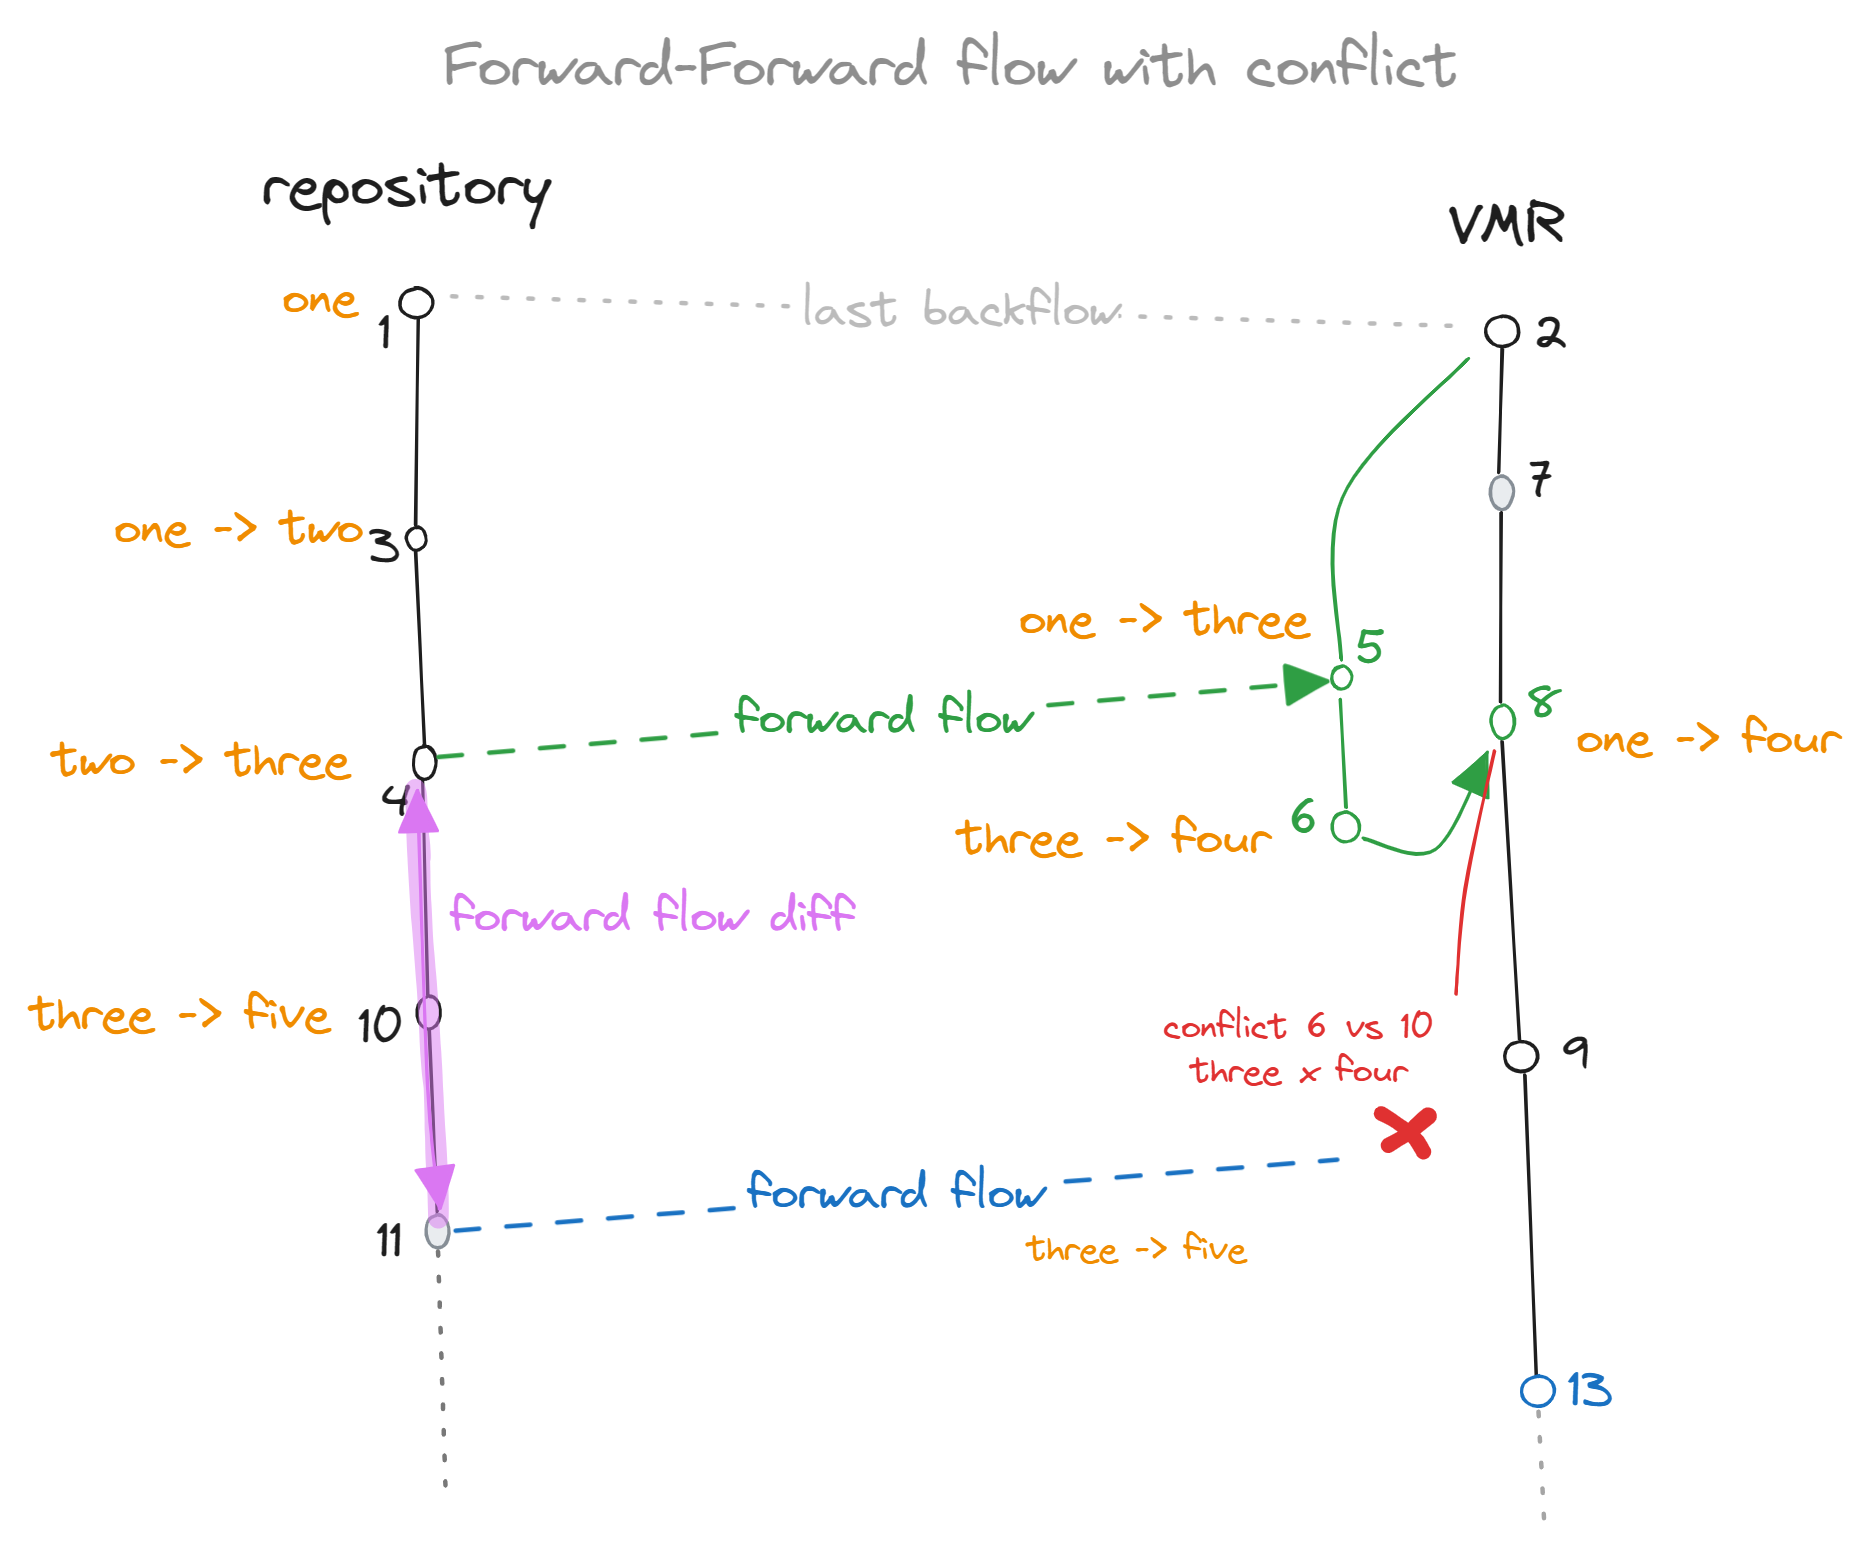
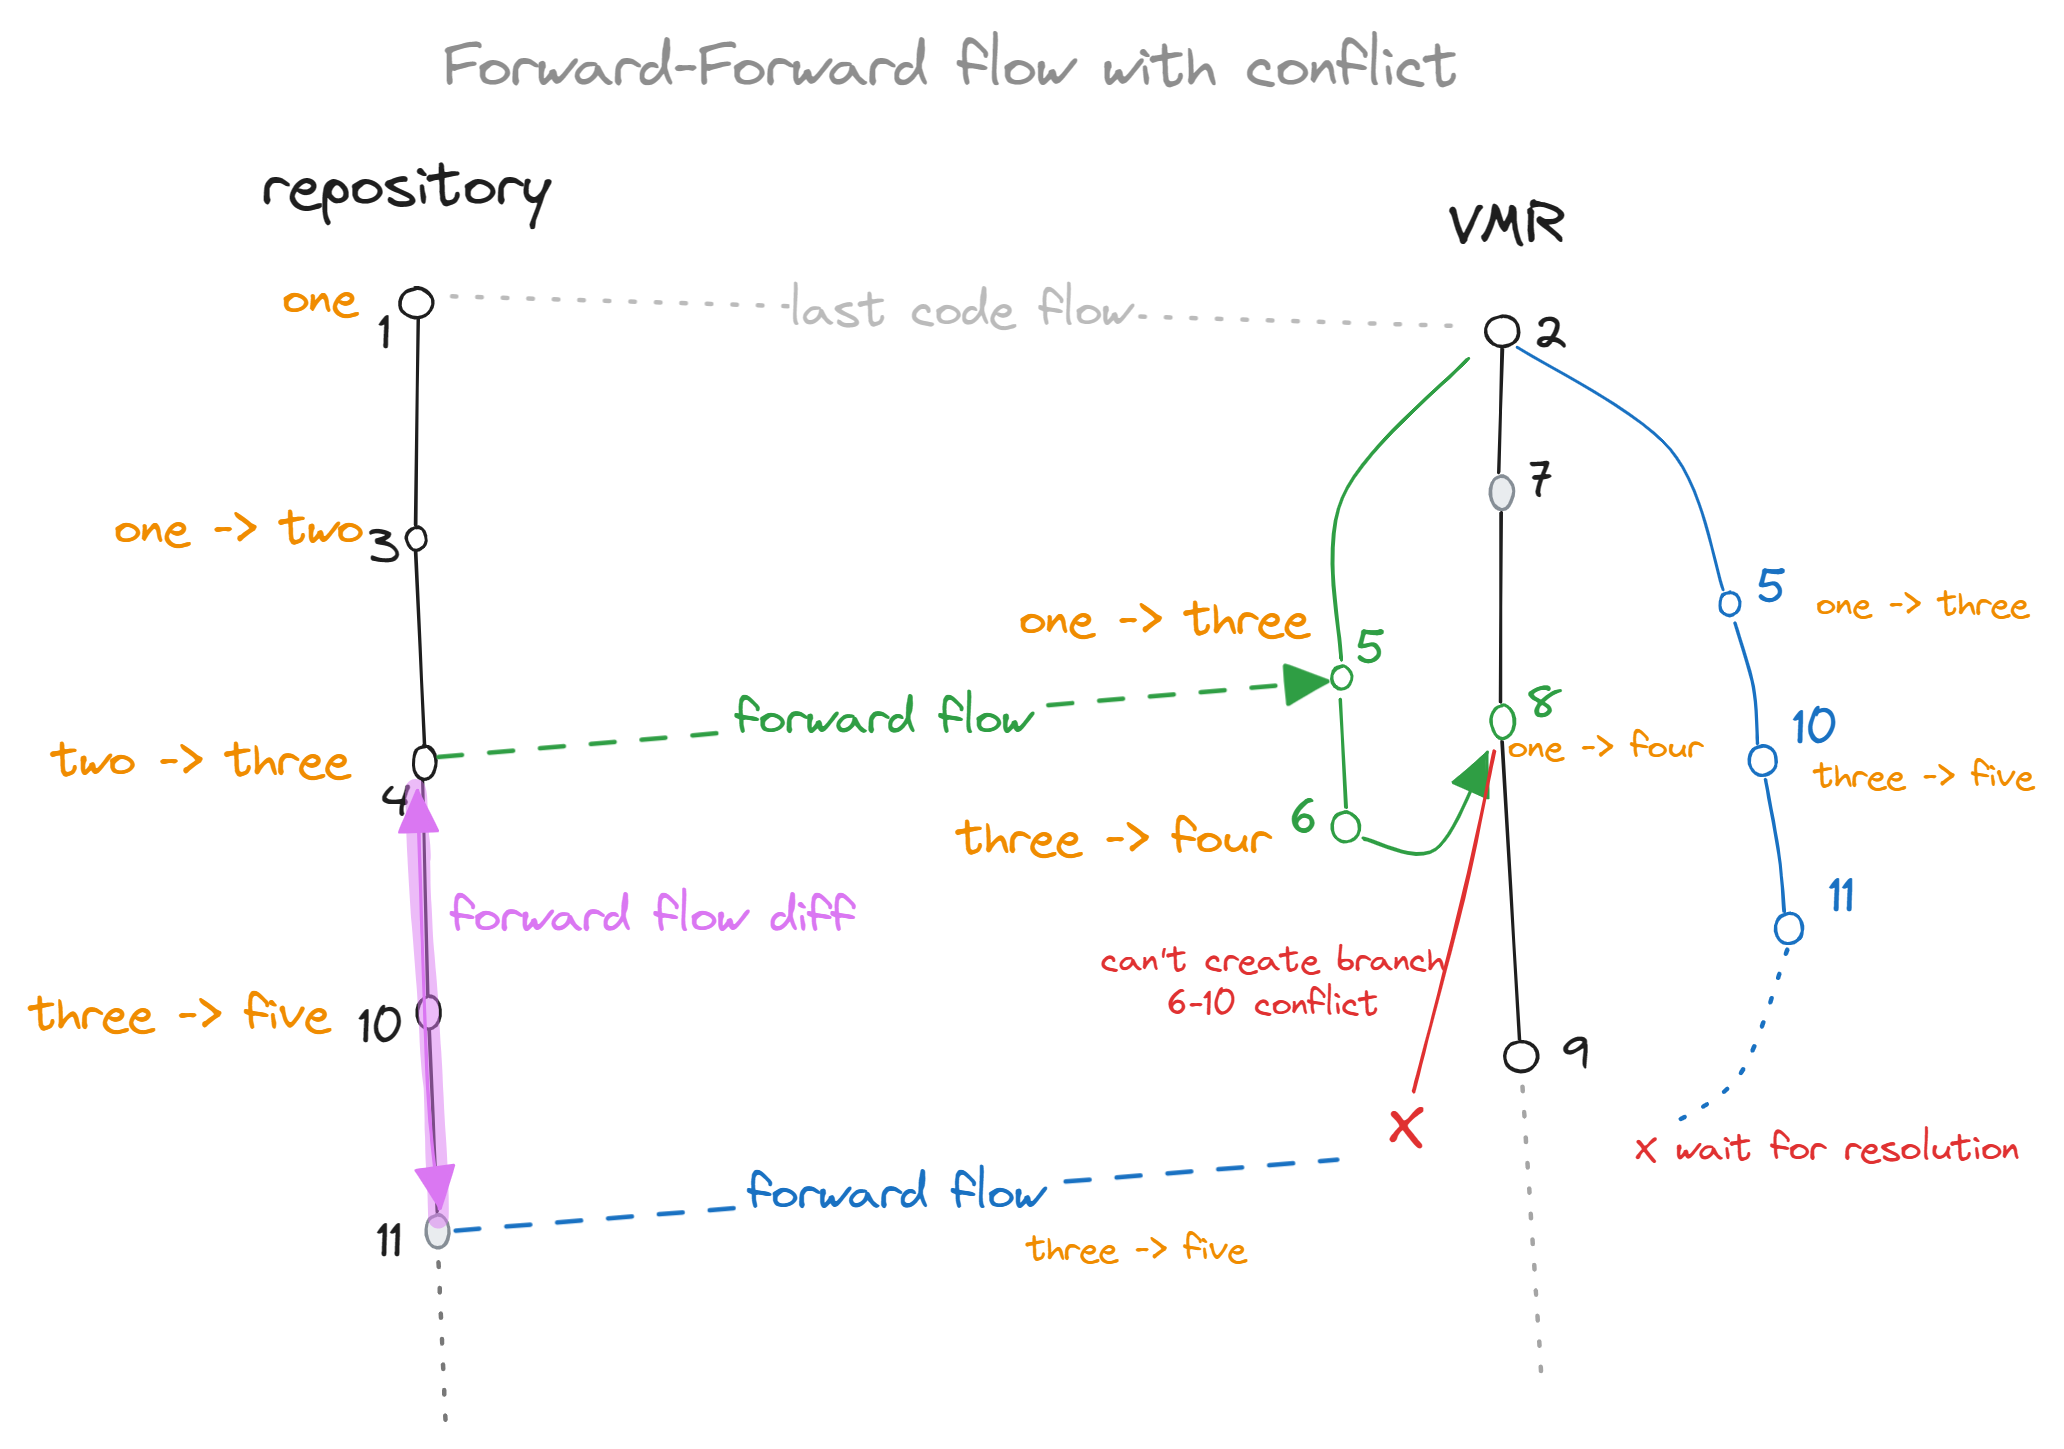
Add conflict example

diff --git a/Documentation/UnifiedBuild/Full-Code-Flow.md b/Documentation/UnifiedBuild/Full-Code-Flow.md
@@ -1,5 +1,29 @@
 # Full VMR code flow
 
+- [Full VMR code flow](#full-vmr-code-flow)
+  - [Purpose](#purpose)
+  - [Terminology](#terminology)
+  - [High-level code flow](#high-level-code-flow)
+    - [Forward flow](#forward-flow)
+    - [Backflow](#backflow)
+  - [Implementation plan](#implementation-plan)
+    - [Backflow service](#backflow-service)
+    - [Why new service?](#why-new-service)
+    - [Composition of DarcLib commands](#composition-of-darclib-commands)
+  - [The codeflow algorithm](#the-codeflow-algorithm)
+    - [Last flow detection](#last-flow-detection)
+      - [Detecting incoming flow](#detecting-incoming-flow)
+      - [Detecting outgoing flow](#detecting-outgoing-flow)
+      - [Cases when SHA is not in the graph](#cases-when-sha-is-not-in-the-graph)
+    - [Conflicts](#conflicts)
+    - [Updating PRs](#updating-prs)
+  - [Synchronization configuration](#synchronization-configuration)
+    - [Configuration location](#configuration-location)
+      - [Proposed configuration](#proposed-configuration)
+    - [Arcade](#arcade)
+      - [Updating `eng/common`](#updating-engcommon)
+      - [Updating `global.json`](#updating-globaljson)
+
 ## Purpose
 
 This document describes the architecture of the full code flow between product repositories and the VMR.
@@ -171,30 +195,30 @@ The diagrams below visualize these flows and have some common features:
 On this diagram we see:
 
 The flow of changes in the diagram is as follows:  
-`1.` and `2.` denote some previous synchronization point.
-`3.` Commit in the repository changes the contents of `A.txt` to `two`.  
-`4.` Commit in the repository changes the contents of `A.txt` to `three`. Forward flow also starts at that point (this is arbitrary).  
-`5.` A forward-flow branch (green) is created in the VMR. The branch is based on the commit of last synchronization (`2.`). The content on the commit is [described below](#forward-flow-commit). A PR from this branch is opened.  
-`6.` An additional arbitrary commit is made in the forward flow PR which changes the contents of `A.txt` to `four` (i.e. fixing the build).  
-`7.` A commit is made to the main branch of the VMR, content is unrelated.  
-`8.` Forward flow PR is merged, effectively updating `A.txt` from `one` to `four`.  
-`9.` A commit is made to the main branch of the VMR, content is unrelated. Backflow starts at that point (this is arbitrary).  
-`10.` A backflow branch (blue) is created in the repository. The branch is based on the commit of last synchronization's (`2.`) base commit. The content on the commit is [described below](#backflow-commit). A PR from this branch is opened.  
-`11.` A commit is made to the main branch of the repository, content is unrelated.  
-`12.` A commit is made to the main branch of the repository, content is unrelated.  
-`13.` The PR is merged, effectively updating `A.txt` from `three` to `five`.
+`1` and `2` denote some previous synchronization point.
+`3` Commit in the repository changes the contents of `A.txt` to `two`.  
+`4` Commit in the repository changes the contents of `A.txt` to `three`. Forward flow also starts at that point (this is arbitrary).  
+`5` A forward-flow branch (green) is created in the VMR. The branch is based on the commit of last synchronization (`2`). The content on the commit is [described below](#forward-flow-commit). A PR from this branch is opened.  
+`6` An additional arbitrary commit is made in the forward flow PR which changes the contents of `A.txt` to `four` (i.e. fixing the build).  
+`7` A commit is made to the main branch of the VMR, content is unrelated.  
+`8` Forward flow PR is merged, effectively updating `A.txt` from `one` to `four`.  
+`9` A commit is made to the main branch of the VMR, content is unrelated. Backflow starts at that point (this is arbitrary).  
+`10` A backflow branch (blue) is created in the repository. The branch is based on the commit of last synchronization's (`2`) base commit. The content on the commit is [described below](#backflow-commit). A PR from this branch is opened.  
+`11` A commit is made to the main branch of the repository, content is unrelated.  
+`12` A commit is made to the main branch of the repository, content is unrelated.  
+`13` The PR is merged, effectively updating `A.txt` from `three` to `five`.
 
 You can notice several features:
 - No (git) conflicts appear. This is because this concrete example considers a single file that is chronologically changed from `one` to `five` in gradual steps. In such case, we should not expect any conflicts and this is by design. In cases where most of the changes happen in the individual repository, we expect the code to flow fluently.
 - The whole flow is comparable to a dev working in a dev branch within a single repository - the dev branch being the VMR where the dev merges the main branch in between the work (this is the forward flow). The dev then opens a PR against the main branch (the repository in this case). Wherever there would be conflicts in a single repository case, we would get conflicts here too and this is by design.
 
-What is left to discuss is how we create the commit (`10.`) of the backflow branch. We know that we received the delta from the repository as part of the commit `8.` after the last forward flow PR was merged. We assume that a squash merge was used and commits `5.` and `6.` are no longer available.  
-The delta between the repositories when commit `9.` (which we will backflow) happens is technically commits `6.`, `7.` and `9.` is visualized as the purple diff between `9.` and `5.`. This diff correctly represents the delta because:
-- It contains the last known snapshot of the repository (`5.`)
-- All commits that happened in the VMR in the meantime (since the last commit) - the commit `7.`.
-- The other commits that happened in the VMR since the sync `9.`.
+What is left to discuss is how we create the commit (`10`) of the backflow branch. We know that we received the delta from the repository as part of the commit `8` after the last forward flow PR was merged. We assume that a squash merge was used and commits `5` and `6` are no longer available.  
+The delta between the repositories when commit `9` (which we will backflow) happens is technically commits `6`, `7` and `9` is visualized as the purple diff between `9` and `5`. This diff correctly represents the delta because:
+- It contains the last known snapshot of the repository (`5`)
+- All commits that happened in the VMR in the meantime (since the last commit) - the commit `7`.
+- The other commits that happened in the VMR since the sync `9`.
 
-The base commit of the backflow branch is then the base commit of the last forward flow as that's what we're applying the delta to. If commit `11.` or `12.` would change the contents of `A.txt`, we would get a conflict in the backflow PR which is desired.
+The base commit of the backflow branch is then the base commit of the last forward flow as that's what we're applying the delta to. If commit `11` or `12` would change the contents of `A.txt`, we would get a conflict in the backflow PR which is desired.
 
 Similarly, we can look at the opposite direction which is symmetrical.
 
@@ -204,7 +228,7 @@ The situation changes when we have two flows in the same direction and things ar
 
 ![Two flows in the same direction](images/backward-backward-flow.png)
 
-When we are forming the backflow commit (`13.`), we know that the only things that happened since we last sent all our updates to the repository are the commits `11.` and `12.` which are equal to a simple diff of the branch we're flowing.
+When we are forming the backflow commit (`13`), we know that the only things that happened since we last sent all our updates to the repository are the commits `11` and `12` which are equal to a simple diff of the branch we're flowing.
 
 ### Last flow detection
 
@@ -242,15 +266,33 @@ We will then use the `shaB`-`shaC` diff (in pink) as the diff for the PR while b
 
 #### Cases when SHA is not in the graph
 
-> ⚠⚠⚠ TODO
+It can happen that the SHA we find in the `Version.Details.xml` or `source-manifest.json` is not in the history of the current repository's branch tip. This can happen when we synchronize an off-branch commit or when the commit comes from a different repository entirely (e.g. internal fork).
+
+> ⚠⚠⚠ TODO - document how it can happen and what to do about it? E.g. force overwriting or finding last common ancestor etc.
 
 ### Conflicts
 
-> ⚠⚠⚠ TODO
+Conflicts will happen and the goal of the process is to:
+1. Make the conflicts visible in the flow PR so that developers need to resolve them.
+2. If a conflict occurs and gets resolved in one side, the next flow from that side should bring the resolution to the other side.
+3. The PR description / comments made by the system should point to the points of friction (e.g. conflicting commits) so that developers have an easier time resolving them.
+
+An example of a conflict that is quite problematic is shown here:
+
+![Conflicting changes](images/forward-forward-flow-with-conflict.png)
+
+In this diagram, the additional commit that was made in the first forward flow PR (`6`) conflicts with a commit made in the repository (`10`). Since there was no backflow, this information is inaccessible by the repository.  
+The follow-up forward flow is problematic because `10` and `11` cannot be applied on top of `8` so we are not able to even create the PR branch.  
+In such a case the only thing left to do is to base the PR branch on the last known good commit (`2`), re-apply `5` (which is technically `1`, `3` and `4`), apply `10` and `11` on top and create a PR branch that will be conflicting with the target branch because of the `6`/`10` conflict.  
+The user would then be instructed to merge the target branch (`9`) into the PR branch and resolve the conflict. The behaviour of git in this case is that the changes contained in `5` that are the same as the ones in `8`, will transparently match up and only the actual conflicting files will be left for resolution.  
+The next backflow will then bring this resolution over to the repository.  
+The downside is that before the target branch is merged into the PR branch, users will see changes in the PR that were previously only merged into the VMR as part of `8`. Those changes will disappear from the PR once the branch is merged.
+
+There are countless other examples of conflicts that can occur but these will usually manifest as conflicts in the PR. The example above is more interesting because the forward flow is unable to even create the PR branch. This is due to the fact that `8` (the previous forward flow commit) contains `6` which is something extra.
 
 ### Updating PRs
 
-> ⚠⚠⚠ TODO
+> ⚠⚠⚠ TODO - situations when a PR is open in one way and a PR in the other way gets merged. How to handle the now outdated original PR?
 
 ## Synchronization configuration
 
